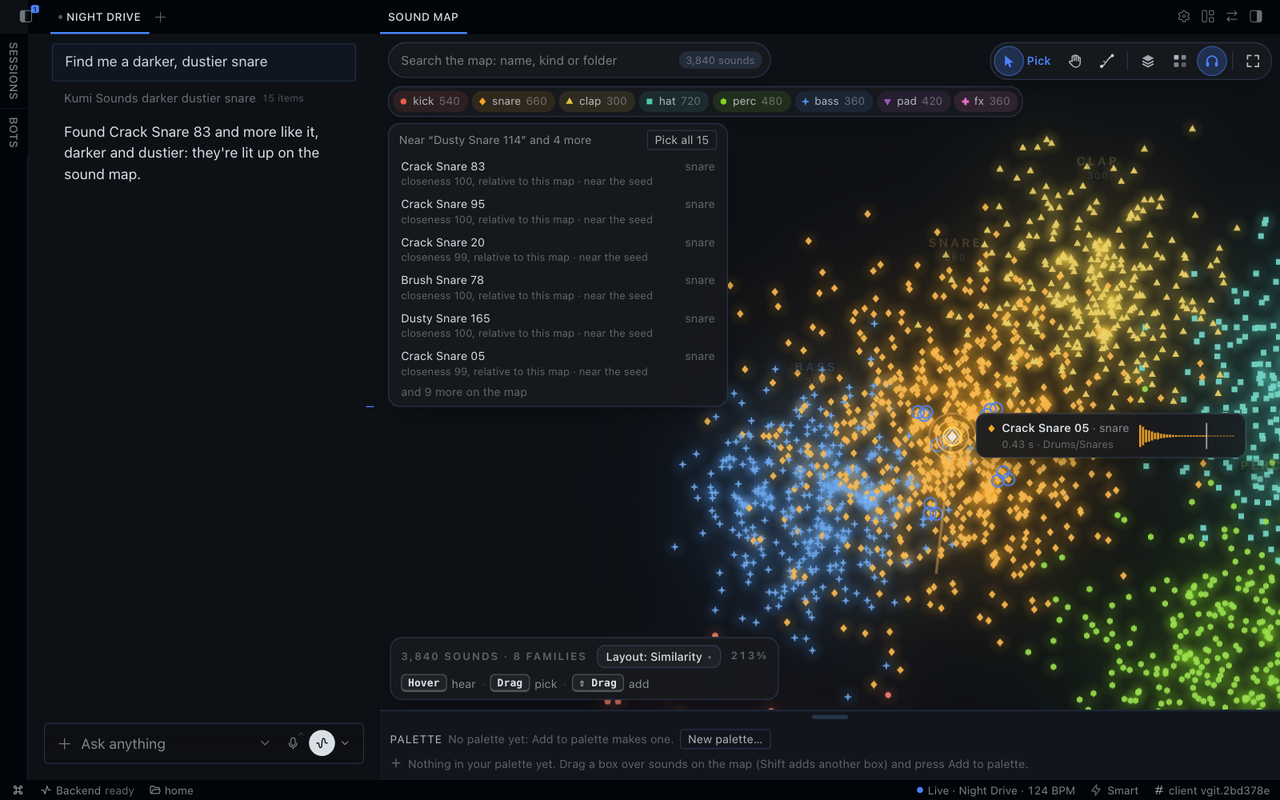
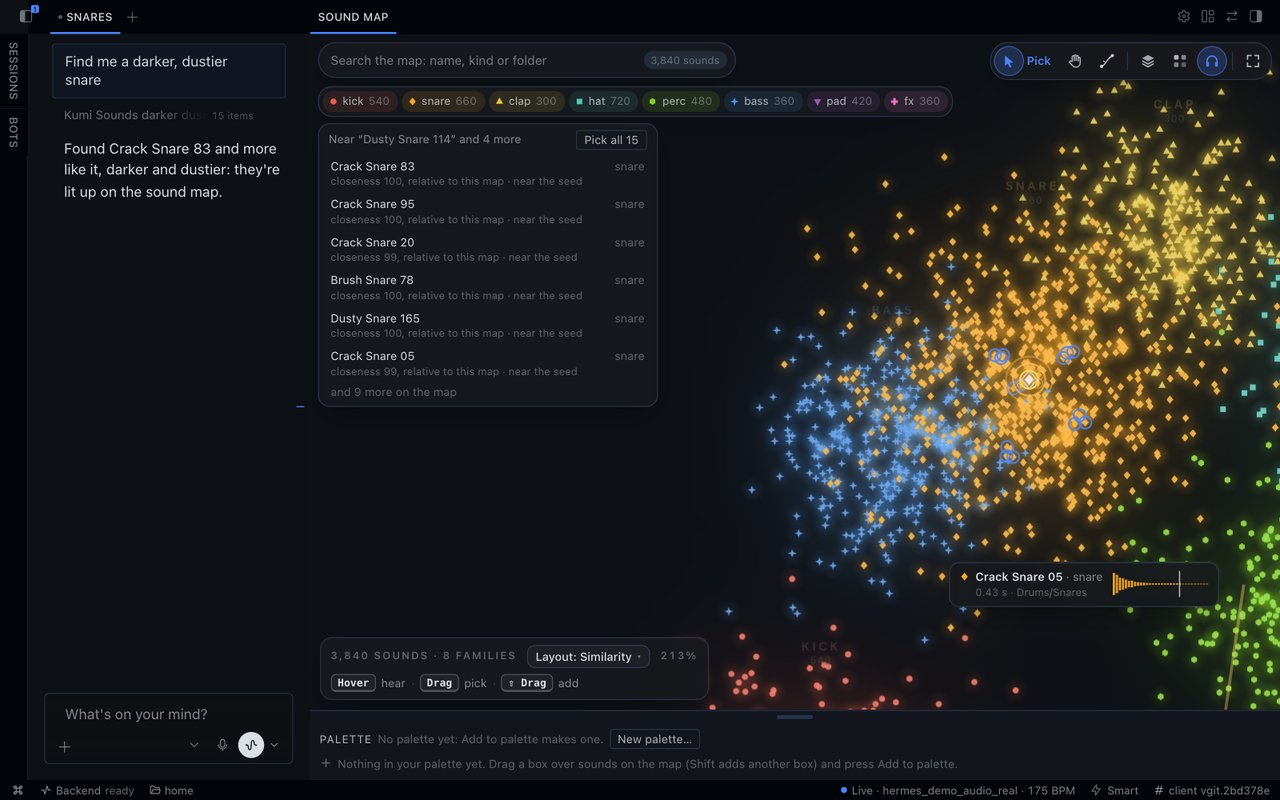
The map, palette, Make and dashboard screenshots show a plainly named project at 175 BPM

diff --git a/hermes-plugin/README.md b/hermes-plugin/README.md
@@ -76,9 +76,9 @@ Hermes stays the agent: Kumi gives it a DAW to work in.
 
 *The palette: a box of 18 snares picked in white, with their actions beside them (Add to palette, Make…, More like these), the palette's 15 hats ringed in the accent, and the palette drawer below, each sound with its waveform in its family's colour.*
 
-![Make, open beside the map: a Stack and a Loop at the project's 124 BPM (playing, kept in the palette), each drawn in the colours of the snares it came from, with Reroll, Keep and Use.](../docs/assets/hermes/screenshots/catalog-8-make.png)
+![Make, open beside the map: a Stack and a Loop at the project's 175 BPM (playing, kept in the palette), each drawn in the colours of the snares it came from, with Reroll, Keep and Use.](../docs/assets/hermes/screenshots/catalog-8-make.png)
 
-*Make, open beside the map: a Stack and a Loop at the project's 124 BPM (playing, kept in the palette), each drawn in the colours of the snares it came from, with Reroll, Keep and Use.*
+*Make, open beside the map: a Stack and a Loop at the project's 175 BPM (playing, kept in the palette), each drawn in the colours of the snares it came from, with Reroll, Keep and Use.*
 
 Screenshots: the pane and the approval are Kumi 1.24.73 on real Ableton Live 12, and the listening shot is Kumi 1.24.71
 on real REAPER 7. Hermes's side of the chat came from a scripted stand-in model, so the words are illustrative; Kumi's

diff --git a/docs/en/HERMES.md b/docs/en/HERMES.md
@@ -185,7 +185,7 @@ The palette is the sounds you gather to work with, as in Kumi's own map; Hermes 
 Kumi makes a new sound out of two or more of yours, as many as you pick (map sounds, palette sounds, or sounds Kumi
 made before). Nothing in your project changes: the result is Kumi's own copy until you use it.
 
-![The Make panel, open beside the map: a Stack and a Loop at the project's 124 BPM (playing, already kept in the palette), each drawn in the colours of the snares it came from, with Reroll, Keep and Use.](../assets/hermes/screenshots/catalog-8-make.png)
+![The Make panel, open beside the map: a Stack and a Loop at the project's 175 BPM (playing, already kept in the palette), each drawn in the colours of the snares it came from, with Reroll, Keep and Use.](../assets/hermes/screenshots/catalog-8-make.png)
 
 *Kumi 1.24.79 in Hermes Desktop; the samples are generated test data, and the made sounds come from Kumi's engine.*
 
